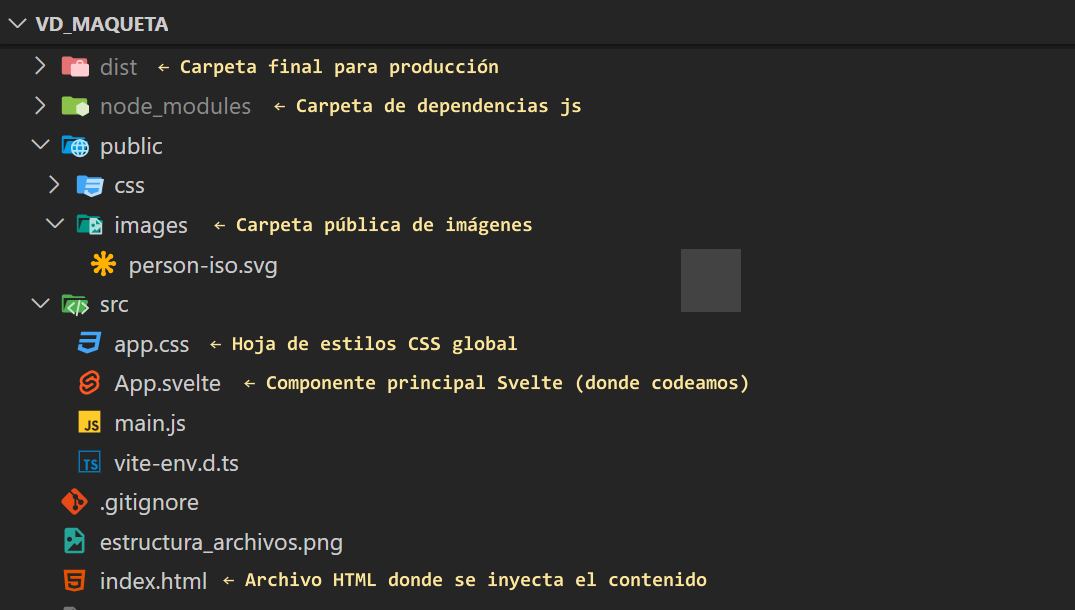
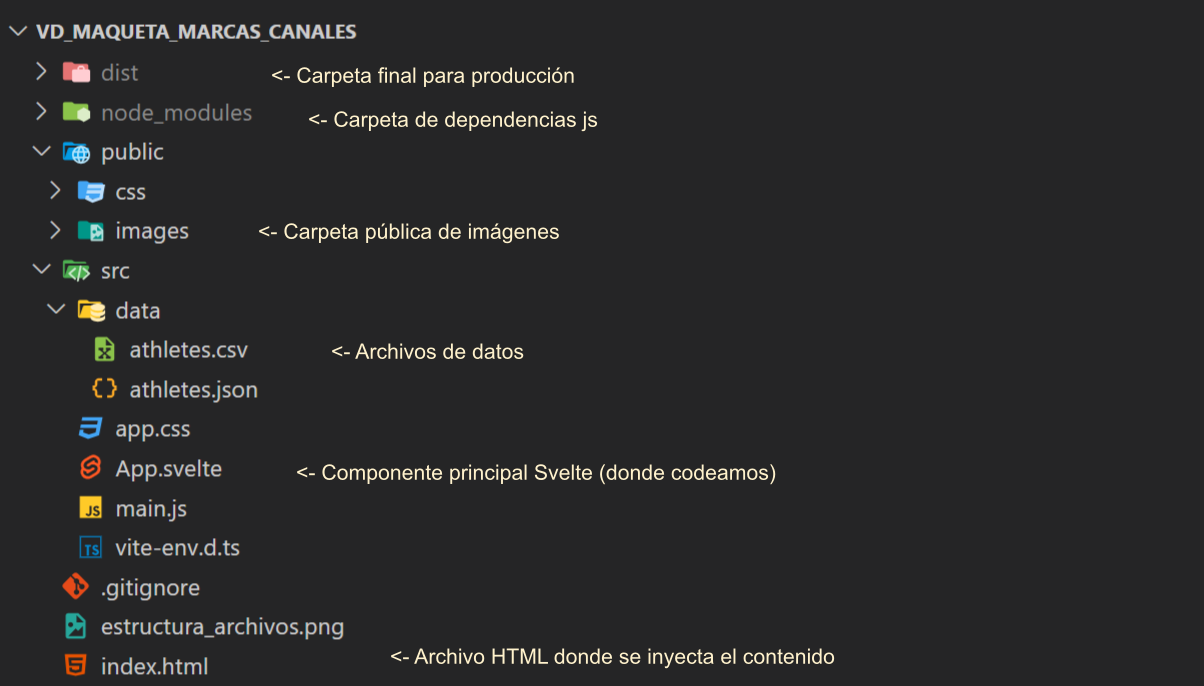
Cambio readme

diff --git a/README.md b/README.md
@@ -1,6 +1,6 @@
 # VD | Maqueta marcas y canales
 
-### Visualización de datos cuantitativos, categóricos, ordinales y de intervalo con HTML, CSS, D3 y Svelte.
+### Visualización de datos de medallistas olímpicos (HTML, CSS, D3 y Svelte)
 
 ---
 
